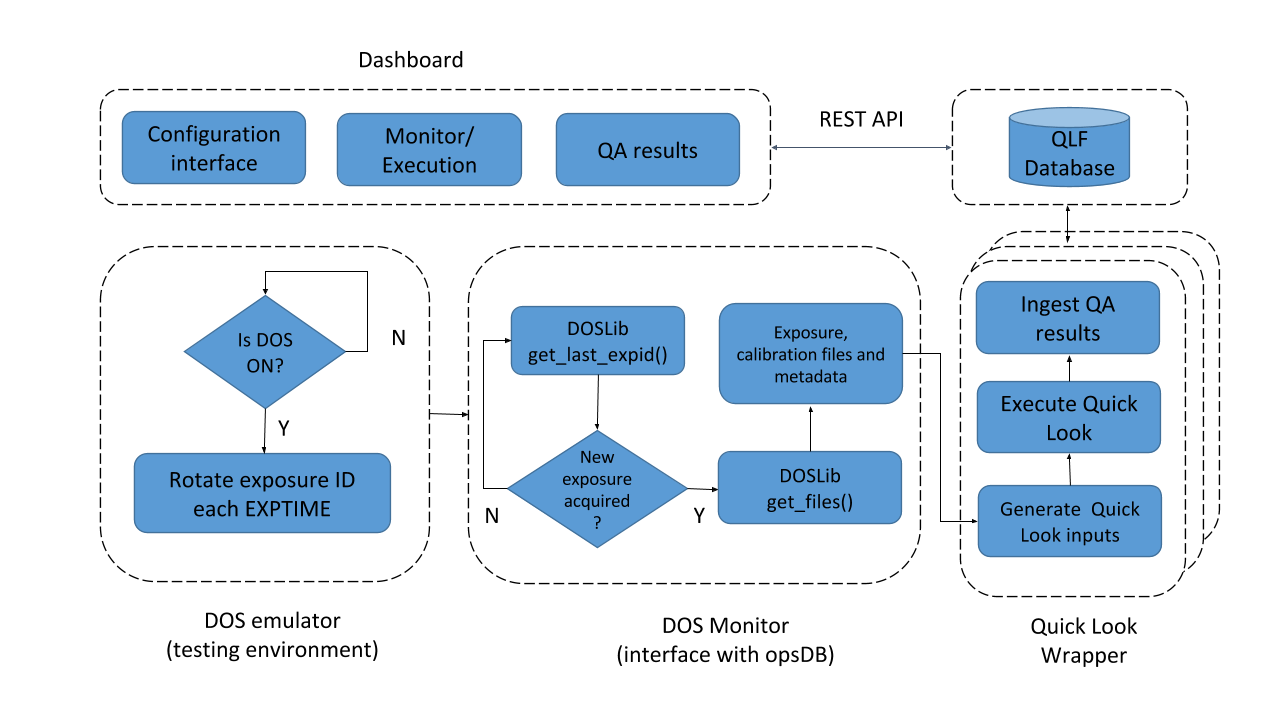
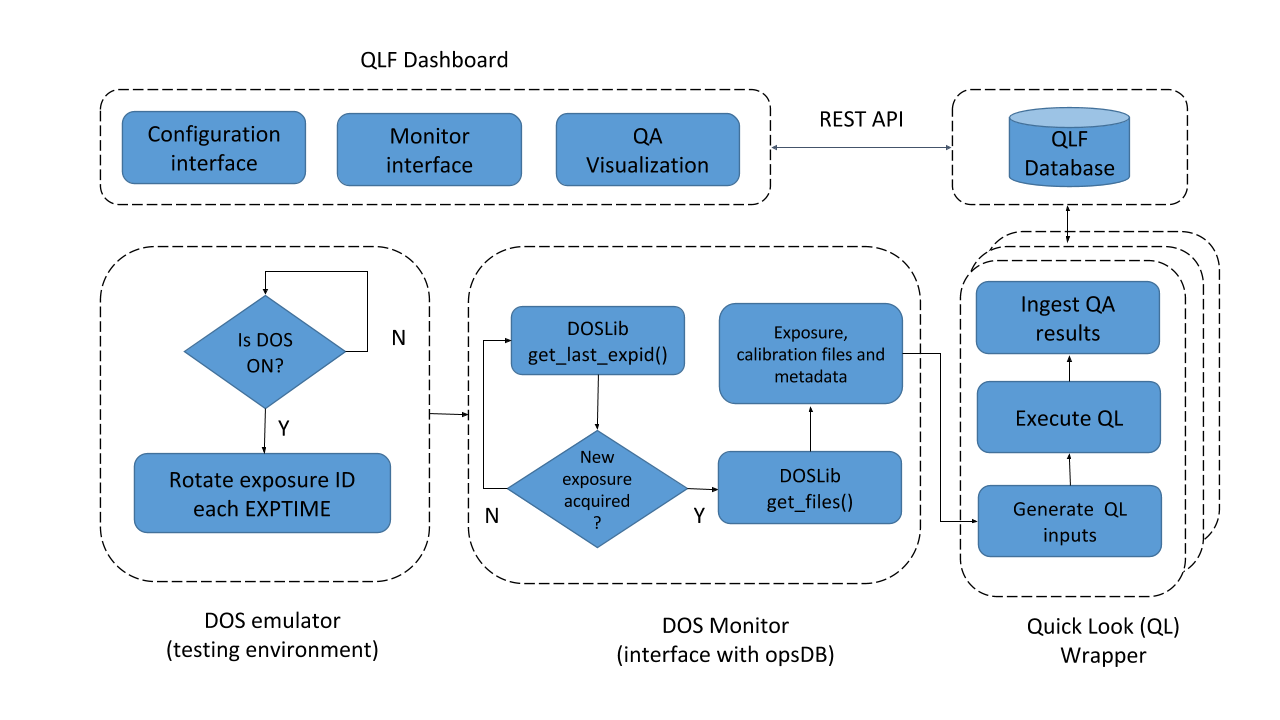
Updated documentation for v0.2

diff --git a/docs/index.rst b/docs/index.rst
@@ -4,64 +4,103 @@ Quick Look Framework
 .. toctree::
    :maxdepth: 2
 
-Angelo Fausti, Robson Goncalves, Luiz N. da Costa
+Angelo Fausti, Luiz N. da Costa, Rafael Silva and `LIneA <http://www.linea.gov.br>`_ team.
 
 .. note::
-    Work in progress.
+    QLF v0.2 work in progress.
 
 Introduction
 ^^^^^^^^^^^^
 
-Quick Look Framework (QLF) is designed to display QA results from the DESI Quick Look pipeline and provide
-feedback to observers about the quality of the data in real-time.
+The Quick Look Framework (QLF) is designed to display QA results from the DESI Quick Look (QL) pipeline and provide
+feedback to the observers about the quality of the data in real-time.
 
-In development mode, QLF runs locally and emulates the Data Online System (DOS) environment to get the input files and
-metadata required to run the QL pipeline.
+This document describes QLF v0.2, an early version of the standalone QLF. The standalone
+QLF is meant to run locally and emulate the interface
+with the DESI Data Online System (DOS) in order to execute the QL pipeline. The QA results
+are ingested into the QLF database and displayed in a dashboard in the browser.
 
 See the `README <https://github.com/linea-it/qlf/blob/master/README.md>`_ for instructions on how to clone the repository,
-install the software dependencies and start QLF in development mode.
+install the required dependencies and run QLF locally.
 
-System Design
-^^^^^^^^^^^^^
+QLF components
+^^^^^^^^^^^^^^
 
-The main components of QLF are described below
+Figure 1 shows the main components of QLF.
 
     .. figure:: _static/qlf.png
        :name: qlf
        :target: _static/qlf.png
-       :alt: QLF system components
+       :alt: QLF components
 
-       Figure 1. QLF system components.
+       Figure 1. QLF components.
 
 
-DOS Test Environment
---------------------
+DOS emulator
+------------
 
-Emulates the acquisition of new exposures for integration tests during development.
-
+Emulates the acquisition of new exposures for tests during development. DOS emulator main goal is to enable the execution
+of the QL pipeline locally on a controlled cadence but it also can antecipate aspects of the QLF interface with the real DOS.
 
 DOS Monitor
 -----------
 
-Implements the interface with DOS (or DOS test environment) to access the input files and metadata required to run the QL pipeline.
+Implements the interface with DOS (or DOS emulator) to access the input files and metadata required to run the QL pipeline.
 
-``DOSlib`` API will provide methods to query the opsDB, for example ``DOSlib.get_last_exposure(params)`` returns information about the last observed exposure such as ``expid``, ``obsdate`` and
-``flavor`` and all other metadata we want to ingest in the `Exposure` table; ``DOSlib.get_file_location(expid)`` return URLs (or paths)
-for the required input files from DOS (or DOS test environment) so that the exposures can be transferred to QLF local disk.
-We assume a exposure is a single FITS file with 30 HDUs (one per camera).
-
+The ``DOSlib`` API will provide methods to query the opsDB, for example ``DOSlib.get_last_expid()`` returns information
+about the last observed exposure such as ``expid``, ``obsdate`` and
+``flavor`` and all other metadata we want to ingest in the QLF exposure table; ``DOSlib.get_files()`` returns URLs (or paths)
+from DOS so that the required files can be transferred to the QLF local disk. We assume a exposure will be a single FITS file with 30 HDUs (one per camera).
 
 .. note::
-    specify similar methods for calibration files (fiber flat, psf boot, ect), telemetry data, fibermap and ETC data. They also can be obtained from opsDB using ``DOSlib``.
+    we need to specify similar methods for calibration files (fiber flat, psf boot, etc), telemetry data, fibermap and ETC data.
+    We assume they also can be obtained from DOS using ``DOSlib``.
 
 
-QL Framework
-------------
+Quick Look wrapper
+------------------
 
-Orchestrates the execution of the QL pipeline and store relevant QA results in a relational database for visualization.
+Orchestrates the execution of the QL pipeline on the 30 CCDs in parallel and ingests the QA results into the QLF database.
 
-The QLF database keeps information about the execution, and QA measurements associated with a given camera and
-exposure.
+For QLF v0.2 we are running the QL pipeline on a single CCD and with a fixed configuration based on ``desispec 0.11.0``.
+
+QA results are uploaded to the QLF database by the QL pipeline using the ``qlf_ingest.py`` module as soon as they are available.
+
+There is also a command line tool `bin/qlf_ingest.py <https://github.com/linea-it/qlf/tree/master/qlf/bin/qlf_ingest.py>`_
+which is useful in development mode to populate the QLF database.
+
+
+.. code:: bash
+
+    $ python qlf_ingest.py --help
+    usage: qlf_ingest.py [-h] --file FILE --qa-name QA_NAME [--force]
+
+    Upload QA results produced by the Quick Look pipeline to QLF database.
+    This script is meant to be run from the command line or imported by Quick Look.
+
+    optional arguments:
+      -h, --help         show this help message and exit
+      --file FILE        Path to QA file produced by Quick Look
+      --qa-name QA_NAME  Name of the QA metric to be ingested
+      --force            Overwrite QA results for a given metric
+
+
+.. hint::
+
+    Use the following command to load a local file with QA results into the QLF database for display:
+
+    .. code:: bash
+
+        $ cd qlf/bin
+        $ python qlf_ingest.py --qa-name SNR --file ../test/data/qa-snr-r0-00000000.yaml
+
+
+
+QLF database and data access
+----------------------------
+
+The QA results associated with a given camera and exposure as well as information about the QL execution
+are store in the QLF database.
 
     .. figure:: _static/qlfdb.png
        :name: qlfdb
@@ -70,86 +109,103 @@ exposure.
 
        Figure 2. Schema of the QLF v0.2 database
 
-QA metrics are pre-loaded into the ``QAMetric`` table as part of the database initialization. A QA metric has a ``name``, ``category``, ``description``, and ``unit``.
+The content of the database is exposed to the QLF dashboard through a REST API.
 
-1. Call ``exposure = DOSlib.get_last_exposure(params)``, it returns a JSON with the ``params`` for the last observed exposure from opsDB, those are the metadata we need to ingest in the ``Exposure Table``.
 
-2. If ``expid`` > last processed ``expid``; then call ``QLF.register(exposure)``. The exposure registration inserts the exposure object in the ``Exposure`` table.
+    .. hint::
+        if you are running QLF locally you should be able to access `localhost:8000/dashboard/api/qa <http://localhost:8000/dashboard/api/qa>`_ and check
+        the QA API endpoint showing the QA results previously loaded to the database. You can also filter by a specific QA and return the content as JSON
+        `localhost:8000/dashboard/api/qa/?name=SNR&format=json <http://localhost:8000/dashboard/api/qa/?name=SNR&format=json>`_
+
+
+QLF Dashboard
+-------------
+
+The QLF dashboard is the primary user interface (UI). The UI is composed by independend `Bokeh <http://bokeh.pydata.org/en/latest/>`_ apps located
+at `dashboard/bokeh <https://github.com/linea-it/qlf/tree/master/qlf/dashboard/bokeh>`_.
+
+The bokeh apps are grouped by an umbrella application based on the `ExtJS <http://examples.sencha.com/extjs/6.0.2/examples/kitchensink/#all>`_ framework.
+
+The bokeh apps are the building blocks for the QA visualization, they can be acessed individually here `localhost:5006 <http://localhost:5006>`.
+The drill down capability (not demonstrated yet) is possible by connecting the bokeh apps and using URL parameters to control aspects
+of the visualization and data access.
+
+While Bokeh enables the QLF developer or the DESI scientist to create interactive visualization in Python,
+the ExtJS is used to develop more complex web interfaces.
+
+
+The dashboard has different interfaces for QA visualization, monitoring of the QL execution and configure the QL pipeline.
+
+Mokup of these interfaces are shown below.
+
+
+QLF pseudo-code
+^^^^^^^^^^^^^^^
+
+1. Call ``exposure = DOSlib.get_last_expid(params)``, it returns a JSON with a list of parameters for the last observed
+exposure, those are the metadata we want to ingest in the ``Exposure Table``.
+
+2. If ``expid`` > last processed ``expid``; then call ``qlf_ingest.post(exposure)``. The exposure registration inserts
+the exposure object in the ``Exposure`` table.
 
 .. note::
-    we want to register all exposures regardless of its type (object, calibration, etc), this information is useful for night statistics but only `object` exposures are going to be processed.
+    we want to register all exposures regardless of its flavor (object, calibration, etc), this information is useful
+    for night statistics but only `object` exposures are going to be processed by the QL pipeline.
 
 .. note::
-    at this point we could also fill the `Camera` so that we have a ``cameraId`` for all cameras that should be present
+    at this point we could also fill the ``Camera`` table so that we have a ``camera_id`` for all the cameras that should
+    be present. Alternatively the ``Camera`` table can be filled when registering the QA results.
 
-3. If ``exposure['flavor']`` is `object`; then call ``DOSlib.get_file_location(expid)``
+3. If ``exposure['flavor']`` is `object`; then call ``DOSlib.get_files(expid)``
 
-4. Transfer exposure to QLF local disk, for example using ``rsync``:
+4. Transfer files to QLF local disk, for example using ``rsync``:
 
     .. code-block:: python
 
-        remote_file= DOSlib.get_file_locationg(expid)
-        cmd = ['rsync', '--ignore-existing', os.environ['USER']+'@'+remote_file, data_dir]
-        p = subprocess.call(cmd)
+        remote_files = DOSlib.get_files(expid)
+        for file in remote_files:
+            cmd = ['rsync', '--ignore-existing', os.environ['USER']+'@'+file, data_dir]
+            p = subprocess.call(cmd)
 
 5. Split the exposure and fiber flat files in individual FITS files (one for each camera)
 
 .. note::
     other inputs are needed at this point? e.g. for fibermap file we could used a method like ``DOSlib.get_fibermap(expid, spectrograph)`` that generates the input file required by QL pipeline.
 
-6. Generate the QL configuration (one file for each camera) based on the current saved configuration
+6. Generate the QL configuration (one file for each camera) based on the current saved configuration in the QLF database.
 
 .. note::
-    the QL configuration can be changed on-the-fly via the interface, the configuration is per exposure.
+    the QL configuration can be changed on-the-fly via the interface, the new configuration will apply for the next exposure
+    to be processed.
 
 .. note::
-    ``Jobs`` table must be changed in the schema, we need a job associated to each camera, so that we have individual execution times, individual logs, and status for each camera.
+    the ``Jobs`` table will changed in the schema, we need a job associated to each camera, so that we have individual execution times, individual logs, and status for each camera.
 
 7. Execute 30 instances of the QL pipeline (one for each camera) in parallel
 
-8. During the execution of each instance, each processing step sends the QA outputs to QLF via an HTTP POST (async) which fills the ``Measurement`` table with the corresponding QA outputs associated with the current exposure and camera (each camera can have several QA outputs)
+8. During the execution of each instance, each processing step uploads the QA results to QLF using the ``qlf_ingest.post()`` method.
+This fills the ``QA`` table with the corresponding QA results associated to the current exposure and camera (each camera will have several QA results)
 
 .. note::
-    we need the QA ouputs as soon as they are produced in order to monitor the execution in real-time; we can't wait the completion of the pipeline execution in order to ingest the results. The partial results of each step for each camera must be available immediately for visualization. For each exposure that means about 10 QAs x 30 cameras HTTP requests, which should be fine.
+    the partial QA results from each processing step and for each camera must be upload as soon as they are available
+    for real-time visualization.
+
 
 .. note::
-    discuss failure recovery.
+    discuss failure recovery, discuss QL heartbeat.
 
 9. Go back to 1.
 
 .. note::
-    for dark time the exposure time (900s) > than the processing time, but for bright time the exposure time will be shorter than the processing time. Note that the above algorithm works for both, we always process the most recent exposure.
+    for dark time, the exposure time (900s) > than the processing time.
 
-A typical HTTP POST to the QLF API looks like:
-
-.. code-block:: python
-
-    >>> import requests
-    >>> response = requests.get('http://localhost:8000/dashboard/api/')
-    >>> response.status_code
-    200
-    >>> api = response.json()
-    >>> job = {
-                 "id": 1,
-                 "expid": 0,
-                 "camera": "r0",
-                 "status": 0,
-                 "measurements": [
-                     {
-                         "metric": "SNR",
-                         "value": <JSON object of the QA output>
-                     }
-                 ]
-               }
-    >>> response = requests.post(api['job'], json=job, auth=(TEST_USER, TEST_PASSWD))
-    >>> response.status_code
-    201
-
+    for bright time, the exposure time will be shorter than the processing time, in this case the above algorithm works
+    because we always process the most recent exposure.
 
 QL pipeline
 -----------
 
-Implemented independently by the It is launched by QLF. QL pipeline communicates back with QLF via HTTP POST.
+Implemented independently by the SMU team. The QL pipeline is launched by QLF.
 
 The processing steps and associated QAs are listed below:
 
@@ -174,13 +230,6 @@ The processing steps and associated QAs are listed below:
 4. Sky Subtraction: desispec.quicksky.py
 
  - https://github.com/desihub/desidatamodel/blob/master/doc/QUICKLOOK/qa-snr-CAMERA-EXPID.rs
-
-
-Visualization
--------------
-
-Mock up of the interfaces.
-
 
 
 Schedule
